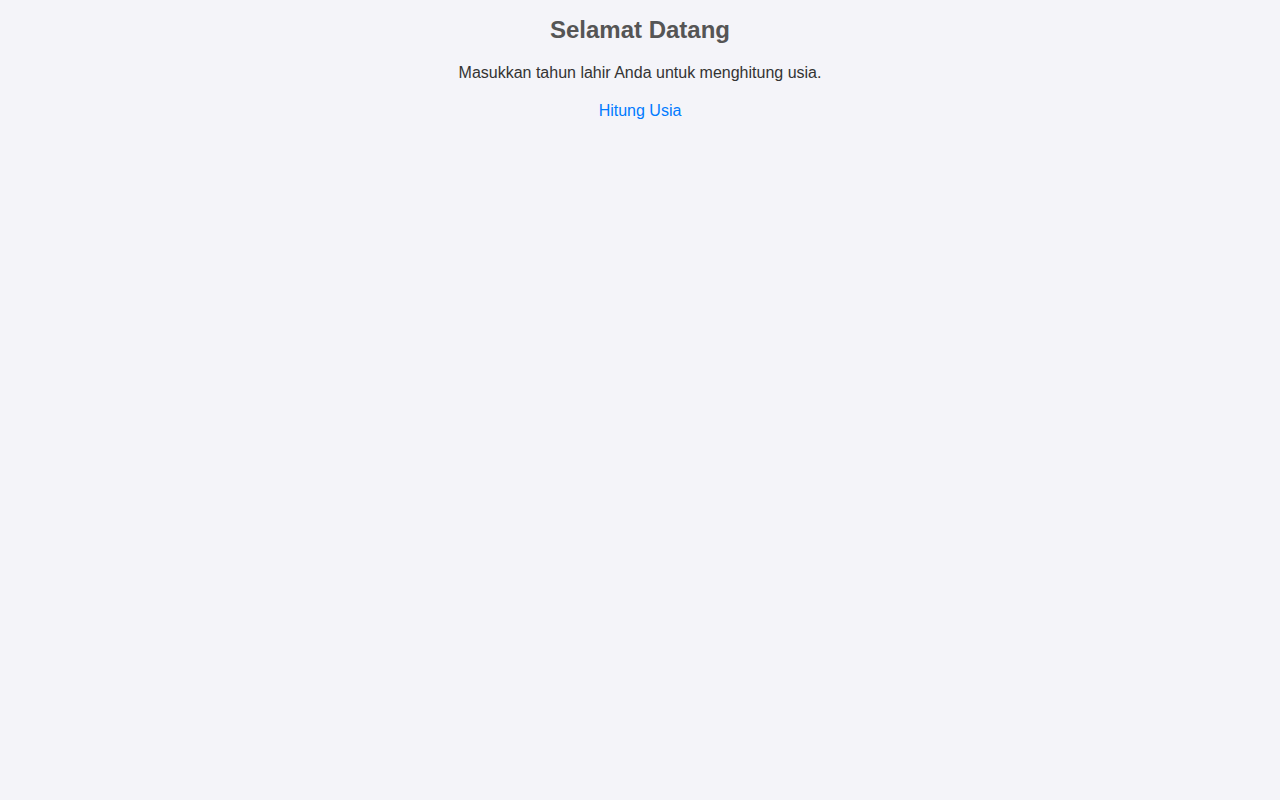
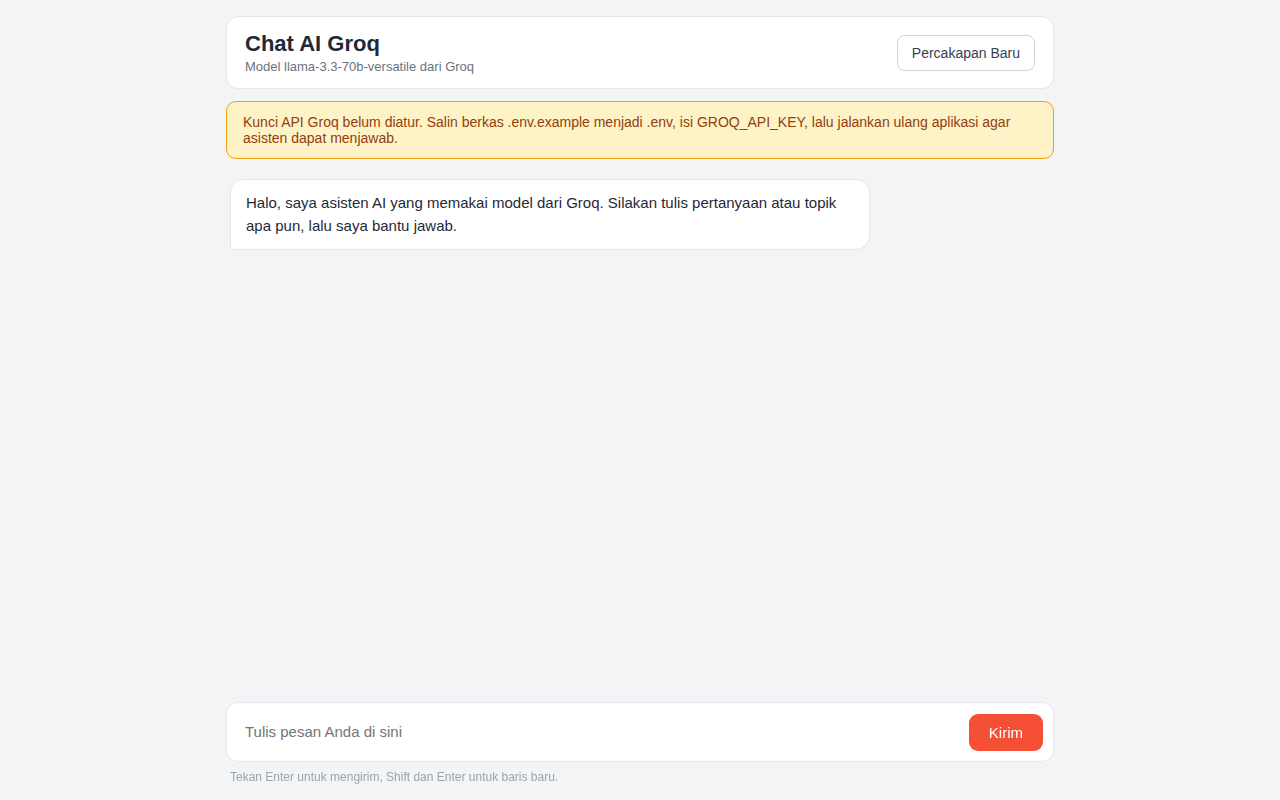
docs: tulis ulang README dan perbarui tangkapan layar

diff --git a/README.md b/README.md
@@ -1,21 +1,25 @@
 # website-ai-groq
 
-Repositori ini berisi aplikasi web sederhana berbasis Flask. Halaman utama menampilkan sambutan dan tautan ke fitur hitung usia. Pengunjung memasukkan tahun lahir pada formulir, lalu aplikasi menghitung dan menampilkan usia pada tahun berjalan.
+Aplikasi web chat AI berbasis Flask yang terhubung ke API Groq. Pengunjung dapat bertukar pesan dengan model bahasa dari Groq melalui halaman chat yang sederhana. Seluruh riwayat percakapan dikirim pada setiap permintaan, jadi asisten dapat menanggapi lanjutan dari obrolan yang sama selama sesi berlangsung.
 
 ## Fitur
 
-- Halaman utama dengan tautan ke fitur hitung usia
-- Formulir hitung usia berdasarkan tahun lahir
-- Hasil perhitungan usia ditampilkan di halaman yang sama
-- Template Jinja dengan satu berkas CSS statis
-- Konfigurasi Docker untuk menjalankan aplikasi dalam container
+- Halaman chat dengan daftar pesan, kolom ketik, dan tombol kirim
+- Indikator mengetik saat menunggu jawaban dari Groq
+- Riwayat percakapan dipertahankan selama sesi halaman dibuka
+- Tombol percakapan baru untuk mengosongkan obrolan dan mulai dari awal
+- Pemanggilan Groq API melalui endpoint chat completions yang kompatibel dengan OpenAI
+- Model dapat diganti lewat variabel lingkungan GROQ_MODEL, bawaan llama-3.3-70b-versatile
+- Pesan pemberitahuan yang ramah bila kunci API belum diatur, tanpa menampilkan galat mentah
+- Tampilan responsif untuk layar kecil dan besar
 
 ## Teknologi
 
-- Python 3.10
-- Flask 2.3.2
-- HTML dan CSS
-- Docker
+- Python 3.10 atau lebih baru
+- Flask 3.1
+- Requests untuk memanggil Groq API
+- HTML, CSS, dan JavaScript murni tanpa CDN
+- Groq API dengan model llama-3.3-70b-versatile sebagai bawaan
 
 ## Cara Instalasi
 
@@ -23,13 +27,47 @@ Prasyarat:
 
 - Python 3.10 atau lebih baru
 - pip
+- Kunci API Groq
 
 Langkah instalasi:
 
-1. Clone repositori ini.
-2. Masuk ke folder proyek lalu jalankan `pip install -r requirements.txt`.
+1. Clone repositori ini lalu masuk ke folder proyek.
 
-Aplikasi ini tidak membutuhkan variabel environment dan tidak memakai database.
+   ```bash
+   git clone https://github.com/bintangyudhis/website-ai-groq.git
+   cd website-ai-groq
+   ```
+
+2. Buat dan aktifkan lingkungan virtual.
+
+   ```bash
+   python3 -m venv venv
+   source venv/bin/activate
+   ```
+
+   Di Windows, aktifkan dengan perintah `venv\Scripts\activate`.
+
+3. Pasang dependensi.
+
+   ```bash
+   pip install -r requirements.txt
+   ```
+
+4. Salin berkas contoh konfigurasi menjadi .env lalu isi kunci API Anda.
+
+   ```bash
+   cp .env.example .env
+   ```
+
+   Isi variabel GROQ_API_KEY di dalam berkas .env dengan kunci Anda. Variabel GROQ_MODEL boleh diganti bila ingin memakai model Groq lain, dan PORT boleh diubah bila port bawaan 5000 sedang terpakai.
+
+### Mendapatkan kunci API Groq
+
+1. Buka https://console.groq.com lalu masuk atau daftar akun.
+2. Buka halaman API Keys di https://console.groq.com/keys.
+3. Buat kunci baru, salin nilainya, lalu tempel ke variabel GROQ_API_KEY pada berkas .env.
+
+Jangan pernah membagikan kunci API Anda atau menulisnya langsung di dalam kode.
 
 ## Cara Menjalankan
 
@@ -37,18 +75,20 @@ Aplikasi ini tidak membutuhkan variabel environment dan tidak memakai database.
 python main.py
 ```
 
-Aplikasi berjalan di `http://localhost:5000`. Halaman hitung usia berada di alamat `/usia`.
+Aplikasi berjalan di http://localhost:5000. Buka alamat itu di peramban, tulis pesan pada kolom di bagian bawah halaman, lalu tekan Enter atau tombol Kirim.
+
+Bila kunci API belum diatur, aplikasi tetap berjalan dan menampilkan pemberitahuan bahwa kunci belum diisi. Isi berkas .env terlebih dahulu agar asisten dapat menjawab.
 
 Menjalankan dengan Docker:
 
 ```bash
 docker build -t website-ai-groq .
-docker run -p 5000:5000 website-ai-groq
+docker run -p 5000:5000 -e GROQ_API_KEY=isi_kunci_anda website-ai-groq
 ```
 
 ## Tangkapan Layar
 
-![Tangkapan layar halaman utama](docs/screenshot.png)
+![Tangkapan layar halaman chat](docs/screenshot.png)
 
 ## Lisensi
 
